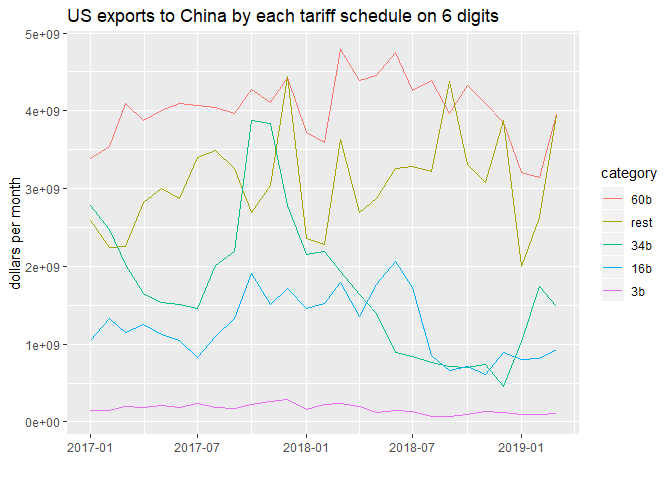
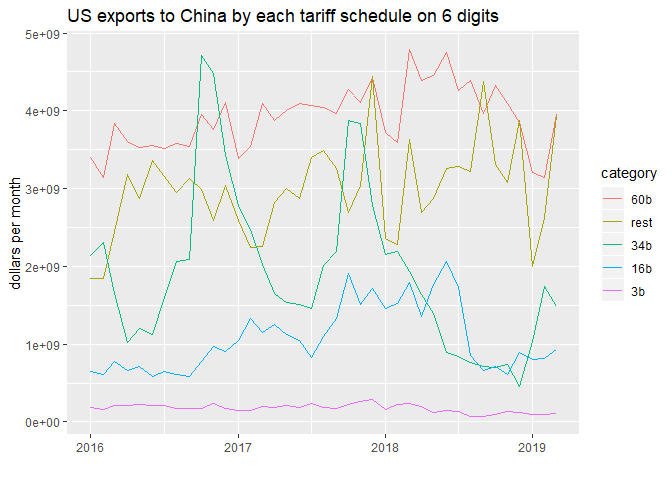
add 2016 data to confirm seasonality of 34b

diff --git a/China-hits-back.md b/China-hits-back.md
@@ -16,7 +16,7 @@ Mitsuo Shiota
   - [Even if retaliation size is less than claimed, US exports are
     hurt](#even-if-retaliation-size-is-less-than-claimed-us-exports-are-hurt)
 
-Updated: 2019-05-15
+Updated: 2019-05-16
 
 ## Summary
 
@@ -176,18 +176,17 @@ stats, but so far I can’t find convenient APIs for them.
 
 ## Even if retaliation size is less than claimed, US exports are hurt
 
-I get data from 2017 to 2019 based on 6 digit codes, and put tariff
+I get data from 2016 to 2019 based on 6 digit codes, and put tariff
 category on each item.
 
-There are 89 duplication. I use “first in” method to put category.
+There are 93 duplication. I use “first in” method to put category.
 
 Retaliation effective dates are April 2, July 6, August 23, September
 24, 2018 for “3b”, “34b”, “16b” and “60b” respectively. “3b”, “16b” and
-“60b” are falling after the effective dates. “34b” is volatile, and is
-falling from the peak of July-December 2017 before the effective date.
-“34b” includes agricultural goods like soybeans, automobiles and
-marine products. Non-retaliated “rest” is not growing. Overall, US
-exports are hurt.
+“60b” are falling after the effective dates. “34b”, which includes
+agricultural goods like soybeans, automobiles and marine products, is
+seasonal, and failed to surge in July-December 2018. Non-retaliated
+“rest” is not growing. Overall, US exports are hurt.
 
 ![](China-hits-back_files/figure-gfm/line_chart-1.png)<!-- -->
 
